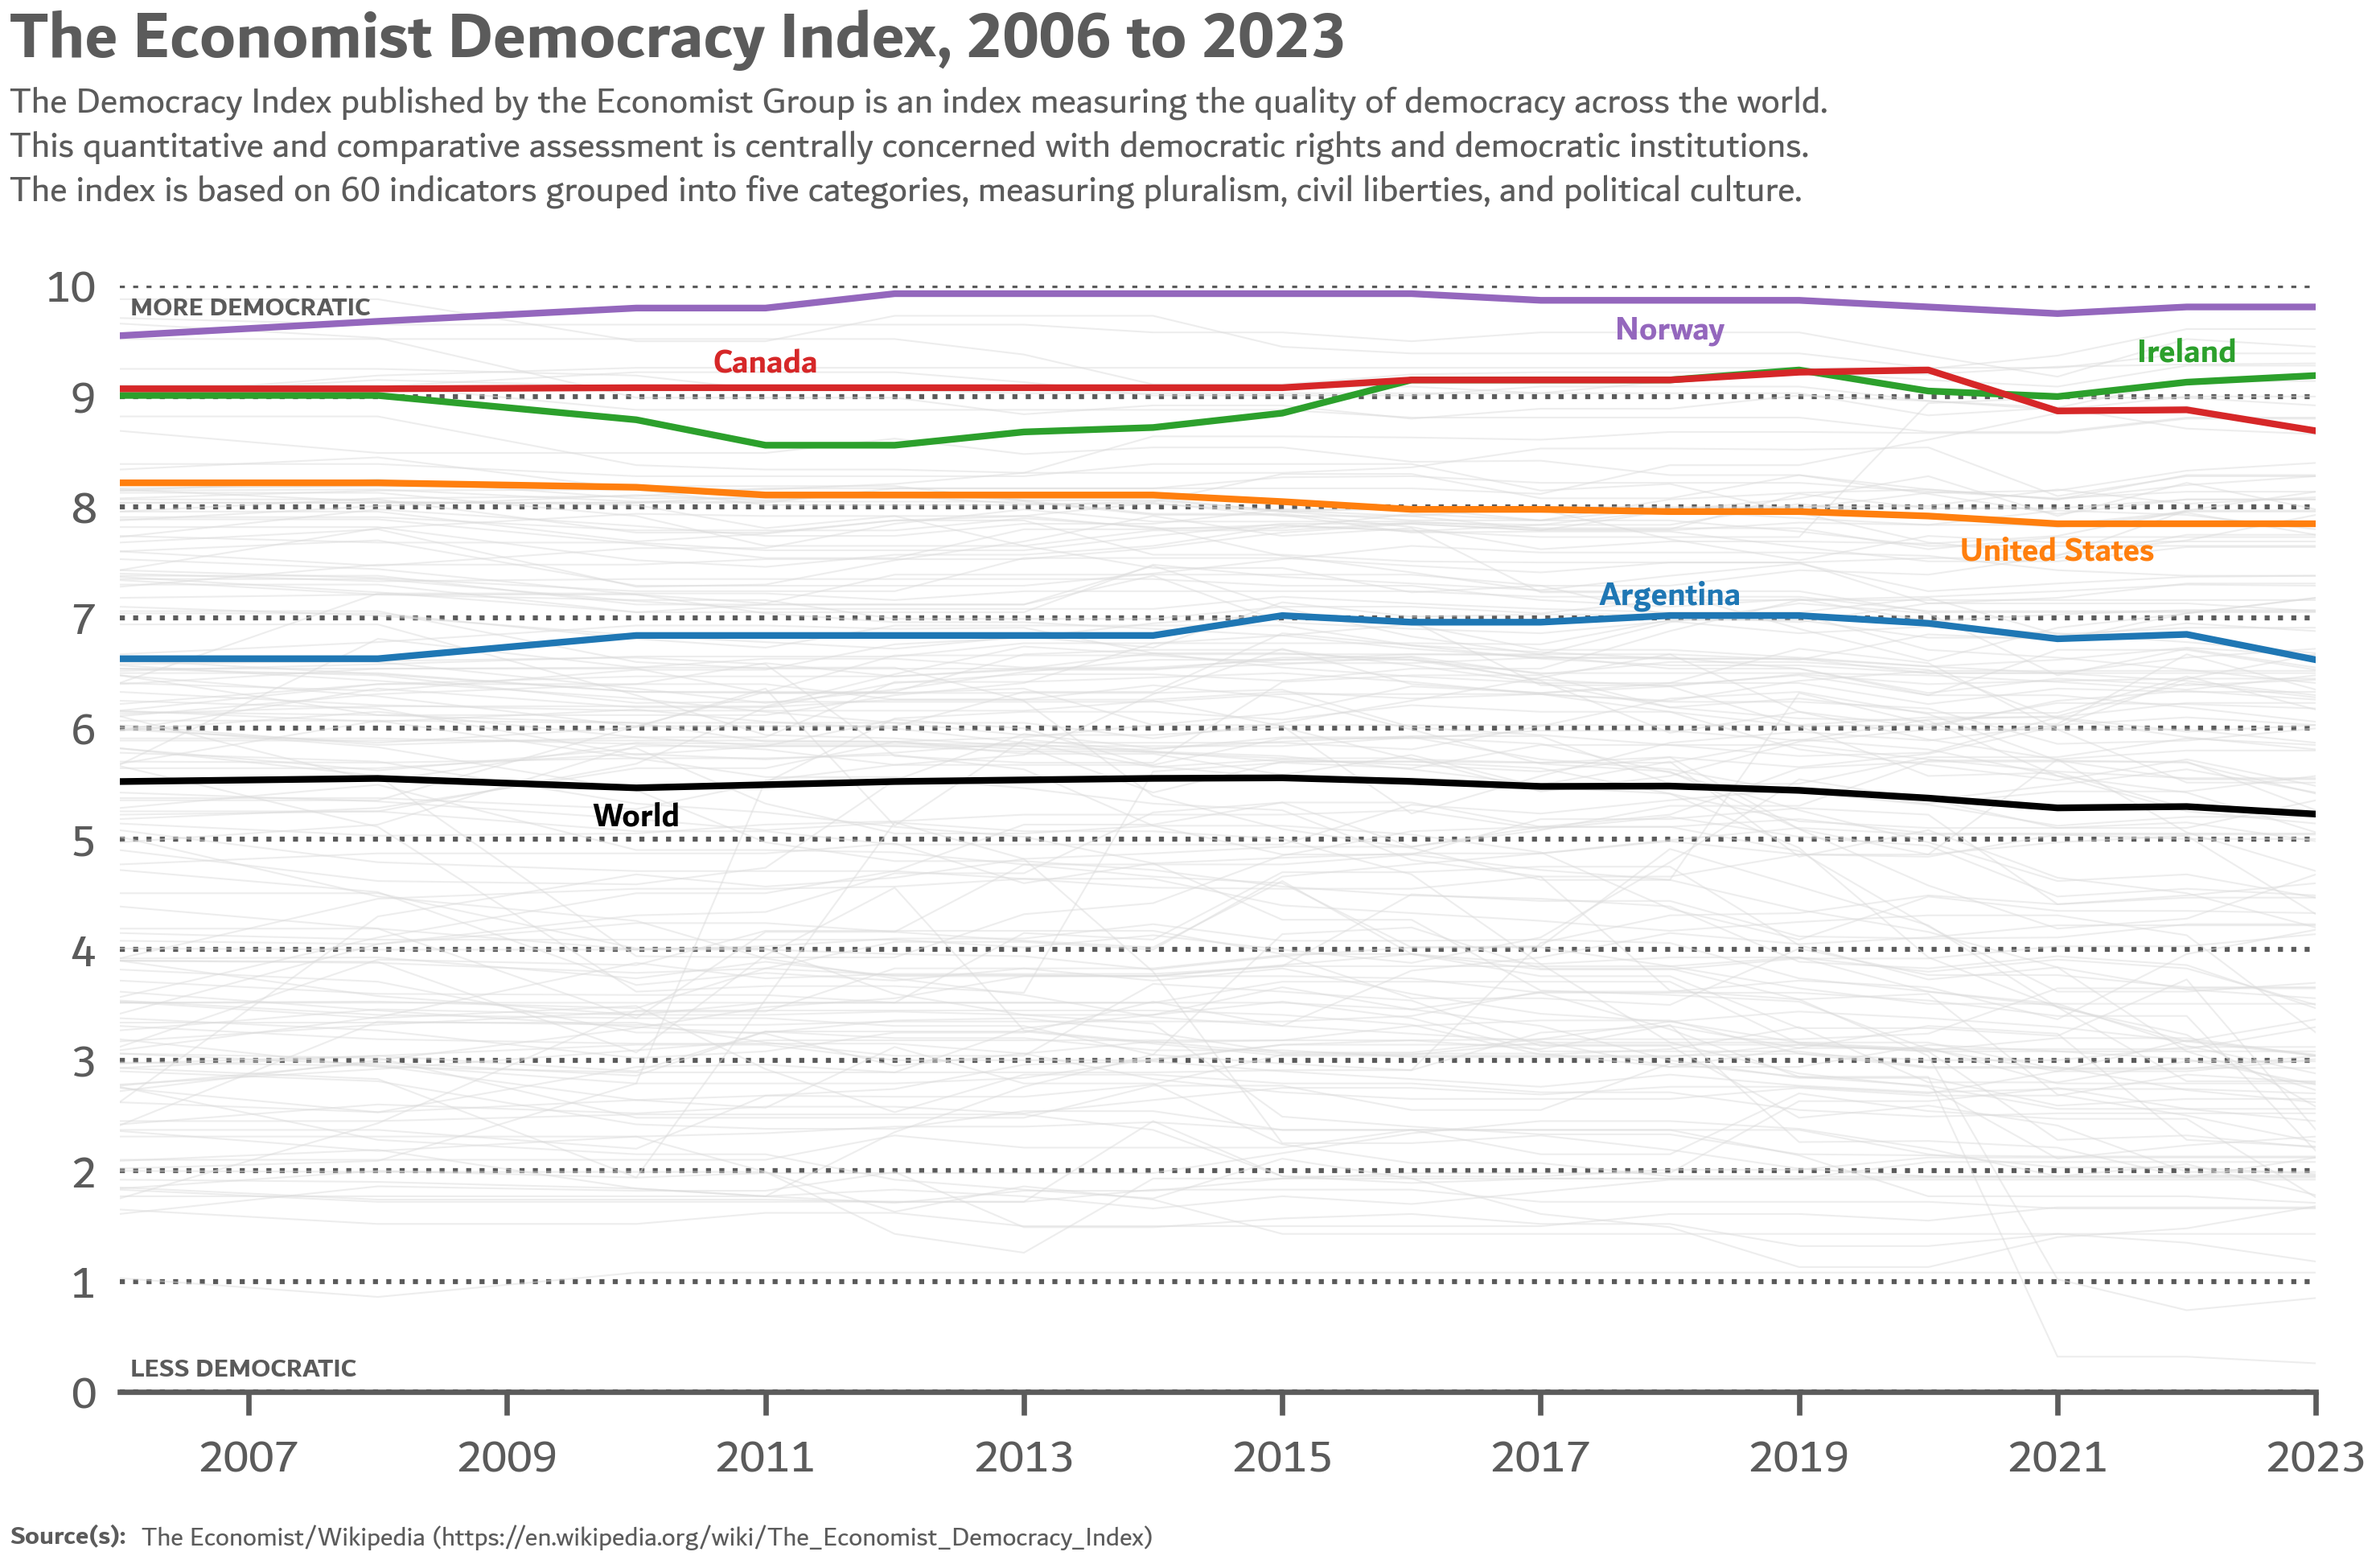
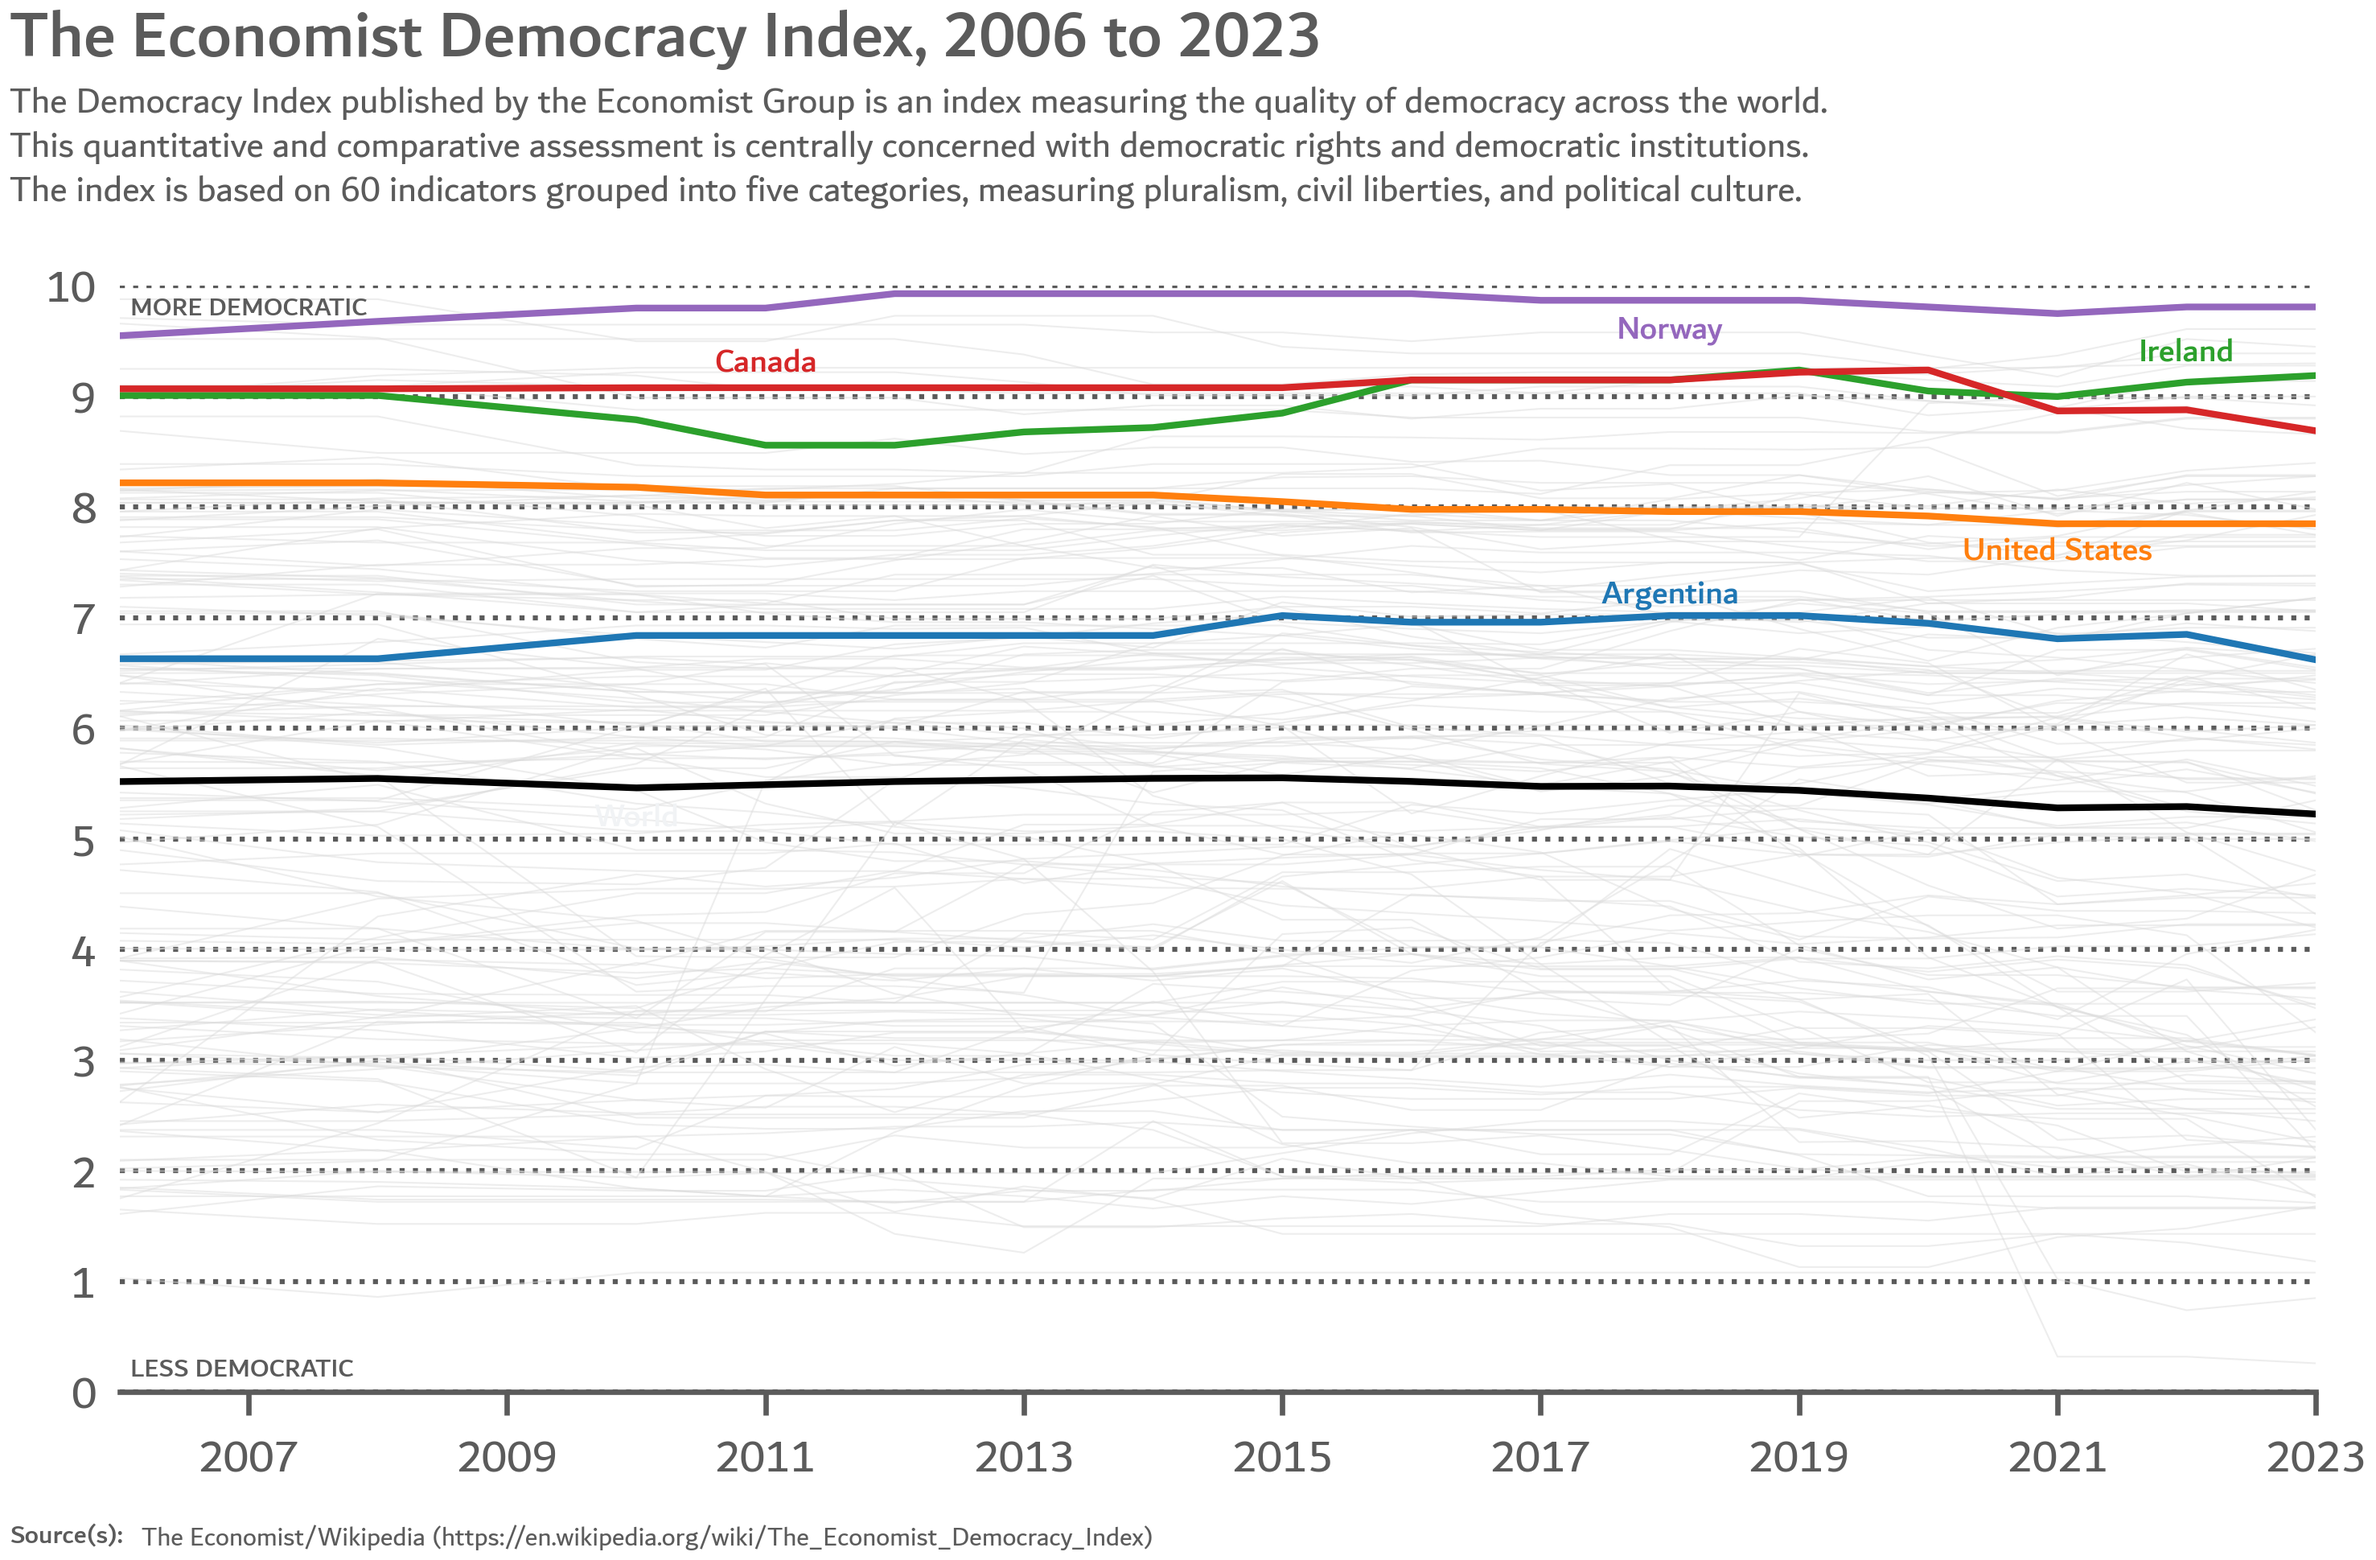
Update figure style.

diff --git a/code/economist_democracy.py b/code/economist_democracy.py
@@ -61,11 +61,11 @@ class DemocracyFigures:
         for country in self.data.df["Country"].unique():
             country_data = self.data.df[self.data.df["Country"] == country]
             ax.plot(country_data["Year"], country_data["DemocracyIndex"],
-                    color="gainsboro", lw=0.25, alpha=0.5)
+                    color=colors.BACKGROUND_LINE, lw=0.25, alpha=0.5)
 
         world_df = self.data.get_world_average()
         ax.plot(world_df["Year"], world_df["DemocracyIndex"],
-                color="black")
+                color=colors.LINE)
 
         region_df = self.data.get_region_averages()
         for i, region in enumerate(region_df["Region"].unique()):
@@ -87,7 +87,7 @@ class DemocracyFigures:
         ax.text(s="Western Europe", x=2011, y=8.2,
                 va="center", ha="center", color=colors.PALETTE[6], weight=600)
         ax.text(s="World", x=2010, y=5.2,
-                va="center", ha="center", color="black", weight=600)
+                va="center", ha="center", color=colors.BLACK, weight=600)
 
         self._add_texts(ax)
 
@@ -106,11 +106,11 @@ class DemocracyFigures:
         for country in self.data.df["Country"].unique():
             country_data = self.data.df[self.data.df["Country"] == country]
             ax.plot(country_data["Year"], country_data["DemocracyIndex"],
-                    color="gainsboro", lw=0.25, alpha=0.5)
+                    color=colors.BACKGROUND_LINE, lw=0.25, alpha=0.5)
 
         world_df = self.data.get_world_average()
         ax.plot(world_df["Year"], world_df["DemocracyIndex"],
-                color="black")
+                color=colors.BLACK)
 
         self._add_country(ax, "Argentina", (2018, 7.2), colors.PALETTE[0])
         self._add_country(ax, "United States", (2021, 7.6), colors.PALETTE[1])
@@ -119,7 +119,7 @@ class DemocracyFigures:
         self._add_country(ax, "Norway", (2018, 9.6), colors.PALETTE[4])
 
         ax.text(s="World", x=2010, y=5.2, va="center", ha="center",
-                color="black", weight=600)
+                color="#f1f3f5", weight=600)
 
         self._add_texts(ax)
 
@@ -135,52 +135,43 @@ class DemocracyFigures:
                 ha="center", color=color, weight=600)
 
     def _add_texts(self, ax: plt.Axes):
-        colors = Colors()
         ax.text(
             s="The Economist Democracy Index, 2006 to 2023",
-            x=-0.05, y=1.25,
-            color=colors.DARKGRAY, weight=600, ha="left",
-            va="top", size=10, transform=ax.transAxes)
+            x=-0.05, y=1.25, weight=600, ha="left", va="top", size=10,
+            transform=ax.transAxes)
         ax.text(
             s="The Democracy Index published by the Economist Group is an"
             + " index measuring the quality of democracy across the world.",
-            x=-0.05, y=1.18,
-            color=colors.DARKGRAY, ha="left",
-            va="top", size=5.5, transform=ax.transAxes)
+            x=-0.05, y=1.18, ha="left", va="top", size=5.5,
+            transform=ax.transAxes)
         ax.text(
             s="This quantitative and comparative assessment is centrally"
             + " concerned with democratic rights and democratic institutions.",
-            x=-0.05, y=1.14,
-            color=colors.DARKGRAY, ha="left",
-            va="top", size=5.5, transform=ax.transAxes)
+            x=-0.05, y=1.14, ha="left", va="top", size=5.5,
+            transform=ax.transAxes)
         ax.text(
             s="The index is based on 60"
             + " indicators grouped into five categories, measuring pluralism,"
             + " civil liberties, and political culture.",
-            x=-0.05, y=1.10,
-            color=colors.DARKGRAY, ha="left",
-            va="top", size=5.5, transform=ax.transAxes)
+            x=-0.05, y=1.10, ha="left", va="top", size=5.5,
+            transform=ax.transAxes)
         ax.text(
             s="Source(s):",
-            x=-0.05, y=-0.12, weight=600,
-            color=colors.DARKGRAY, ha="left",
-            va="top", size=4, transform=ax.transAxes)
+            x=-0.05, y=-0.12, weight=600, ha="left", va="top", size=4,
+            transform=ax.transAxes)
         ax.text(
             s="The Economist/Wikipedia "
             + "(https://en.wikipedia.org/wiki/The_Economist_Democracy_Index)",
-            x=0.01, y=-0.12,
-            color=colors.DARKGRAY, ha="left",
-            va="top", size=4, transform=ax.transAxes)
+            x=0.01, y=-0.12, ha="left", va="top", size=4,
+            transform=ax.transAxes)
         ax.text(
             s="LESS DEMOCRATIC",
-            x=0.005, y=0.01, weight=600,
-            color=colors.DARKGRAY, ha="left",
-            va="bottom", size=4, transform=ax.transAxes)
+            x=0.005, y=0.01, weight=600, ha="left", va="bottom", size=4,
+            transform=ax.transAxes)
         ax.text(
             s="MORE DEMOCRATIC",
-            x=0.005, y=0.99, weight=600,
-            color=colors.DARKGRAY, ha="left",
-            va="top", size=4, transform=ax.transAxes)
+            x=0.005, y=0.99, weight=600, ha="left", va="top", size=4,
+            transform=ax.transAxes)
 
 
 if __name__ == "__main__":

diff --git a/code/colors.py b/code/colors.py
@@ -1,12 +1,15 @@
 class Colors:
-    DARKGRAY = "#5b5b5b"
-    BLUE = "#1f77b4"
-    ORANGE = "#ff7f0e"
-    GREEN = "#2ca02c"
-    RED = "#d62728"
-    PURPLE = "#9467bd"
-    BROWN = "#8c564b"
-    PINK = "#e377c2"
-    GRAY = "#7f7f7f"
-
-    PALETTE = [BLUE, ORANGE, GREEN, RED, PURPLE, BROWN, PINK, GRAY]
+    def __init__(self):
+        self.LINE = "black"
+        self.BACKGROUND_LINE = "gainsboro"
+        self.BLACK = "black"
+        self.BLUE = "#1f77b4"
+        self.ORANGE = "#ff7f0e"
+        self.GREEN = "#2ca02c"
+        self.RED = "#d62728"
+        self.PURPLE = "#9467bd"
+        self.BROWN = "#8c564b"
+        self.PINK = "#e377c2"
+        self.GRAY = "#7f7f7f"
+        self.PALETTE = [self.BLUE, self.ORANGE, self.GREEN, self.RED,
+                        self.PURPLE, self.BROWN, self.PINK, self.GRAY]
